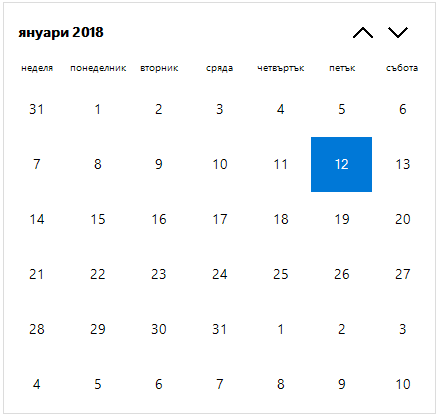
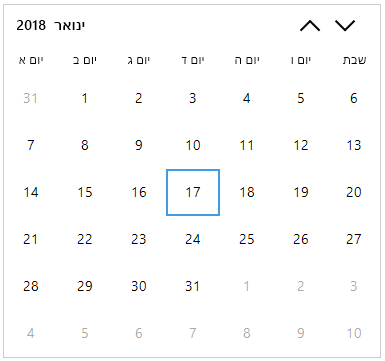
WF-41005 - Publish documentation for SfCalendar control

diff --git a/WindowsForms/SfCalendar/globalization.md b/WindowsForms/SfCalendar/globalization.md
@@ -23,7 +23,7 @@ To change the culture for this control, use the following code example.
 
 //Setting the culture
 
-this.SfCalendar1.Culture = new System.Globalization.CultureInfo(2);
+this.sfCalendar.Culture = new CultureInfo("he-IL");
 
 {% endhighlight  %}
 
@@ -31,7 +31,7 @@ this.SfCalendar1.Culture = new System.Globalization.CultureInfo(2);
 
 ' Setting the culture
 
-this.SfCalendar1.Culture = new System.Globalization.CultureInfo(2)
+Me.sfCalendar.Culture = New CultureInfo("he-IL")
 
 {% endhighlight  %}
 

diff --git a/WindowsForms/SfCalendar/appearance.md b/WindowsForms/SfCalendar/appearance.md
@@ -154,7 +154,7 @@ Calendar control cells can be customized by using the following properties.
 
 ### Customize trailing date appearance 
 
-Calendar control Trailing(Next or Previous month) cells can be customized by the below properties.
+Calendar control trailing(Next or Previous month) cells can be customized by the below properties.
 
 * TrailingCellBackColor
 * TrailingCellForeColor
